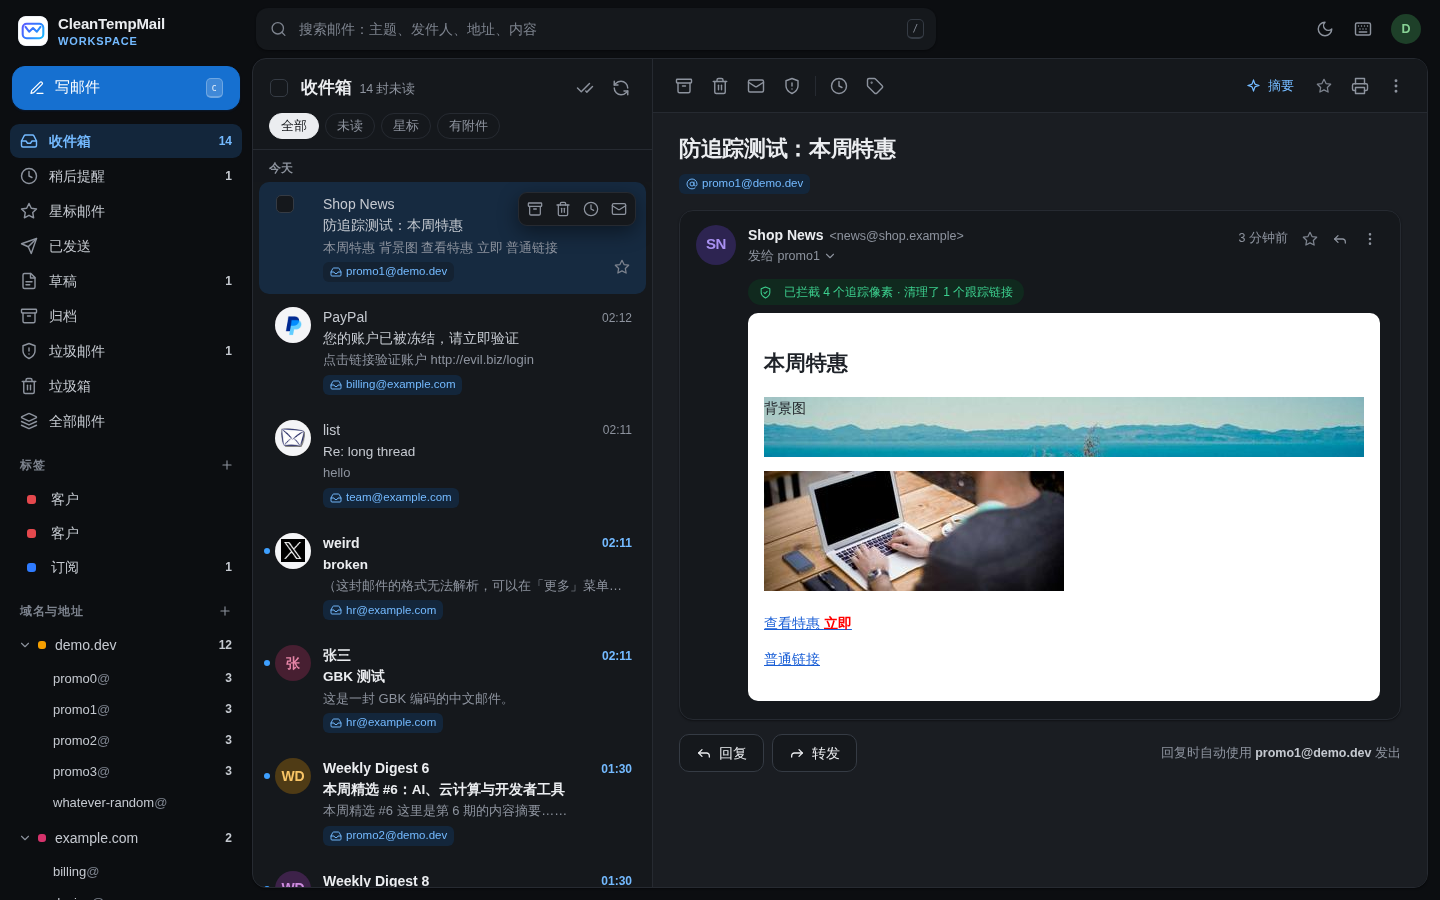
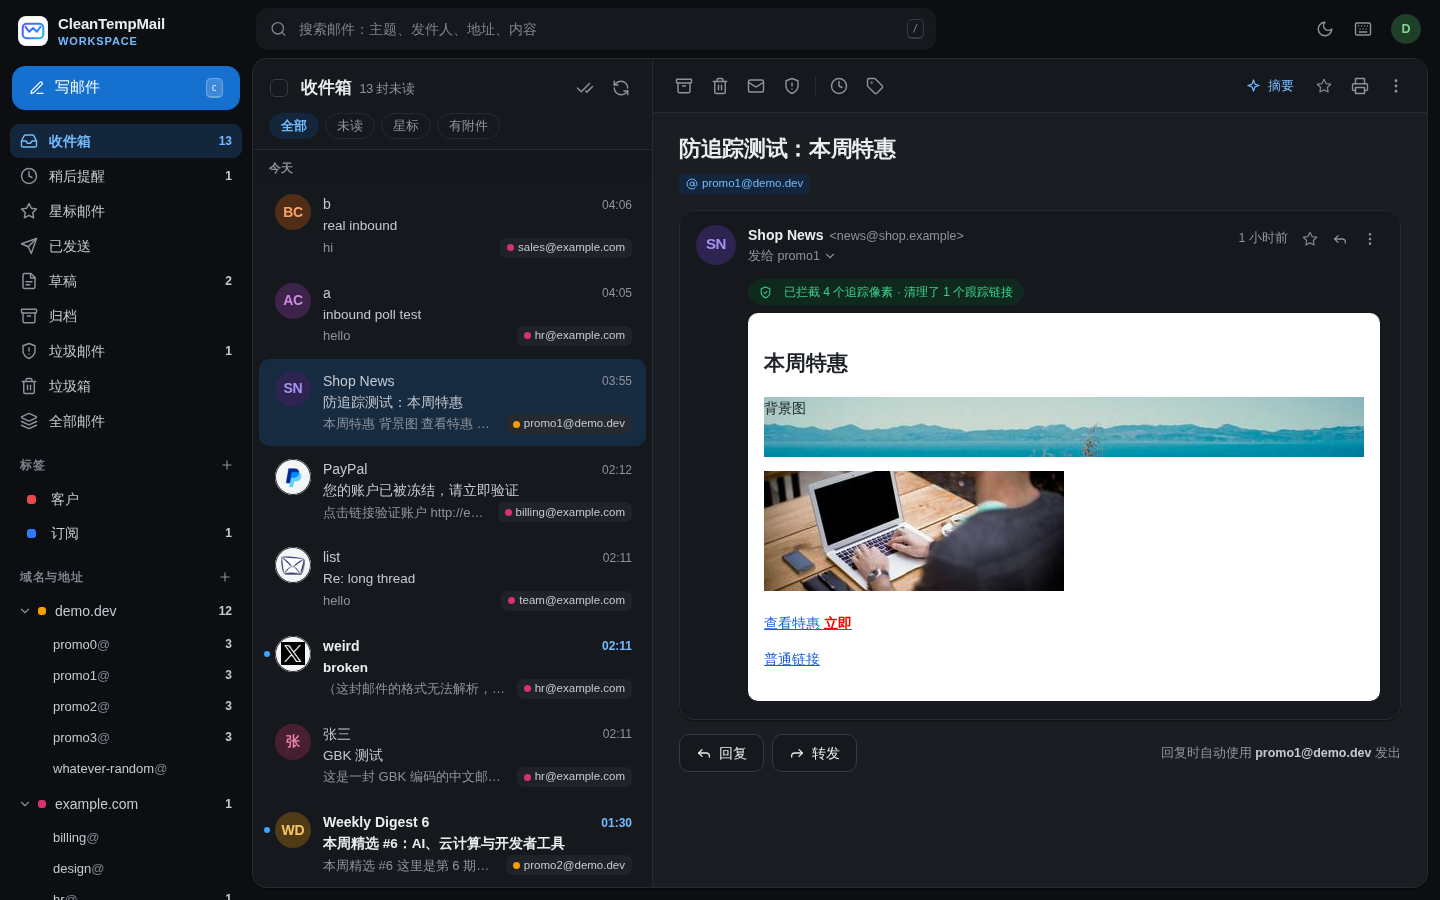
Polish the mail list and small visual details
From a design critique pass:
- list rows are three lines instead of four: the address and label chips
  sit on the snippet line, so about a third more mail fits on screen
- address chips are neutral with a color dot matching the sidebar, so
  blue is left to mean "unread"
- the active list filter uses the soft accent instead of a solid black pill
- starring moves into the hover actions; starred threads show a small star
  next to the time instead of a floating button that the hover bar covered
- brand avatars get an outline drawn above the logo
- the composer's domain picker drops the native arrow so only one chevron
  remains next to it
- the empty reading pane shows the unread count only in the inbox
- the tracking-protection notice is translated in the English UI
- README screenshots updated

diff --git a/public/css/app.css b/public/css/app.css
@@ -307,7 +307,7 @@ code { font: 12.5px var(--mono); background: var(--hover); padding: 1px 6px; bor
 .filters { display: flex; gap: 6px; padding: 0 16px 10px; flex-wrap: wrap; align-items: center; border-bottom: 1px solid var(--line); }
 .filter { height: 26px; padding: 0 11px; border-radius: 99px; border: 1px solid var(--line); background: transparent; color: var(--muted); font-size: 12.5px; font-weight: 500; cursor: pointer; transition: all .12s; }
 .filter:hover { border-color: var(--line-strong); color: var(--text); }
-.filter.on { background: var(--text); border-color: var(--text); color: var(--panel); }
+.filter.on { background: var(--accent-soft); border-color: transparent; color: var(--accent-text); font-weight: 600; }
 .search-chip { display: inline-flex; align-items: center; gap: 4px; height: 26px; padding: 0 4px 0 9px; border-radius: 99px; background: var(--accent-soft); color: var(--accent-text); font-size: 12.5px; font-weight: 500; }
 .search-chip .i { width: 13px; height: 13px; }
 .search-chip button { border: 0; background: none; color: inherit; display: grid; place-items: center; width: 18px; height: 18px; border-radius: 50%; cursor: pointer; padding: 0; }
@@ -337,7 +337,7 @@ code { font: 12.5px var(--mono); background: var(--hover); padding: 1px 6px; bor
 .row.unread .row-from { color: var(--text); font-weight: 650; }
 .row-count { font-size: 11.5px; color: var(--muted); font-weight: 600; background: var(--hover); padding: 0 6px; border-radius: 99px; line-height: 18px; }
 .row.active .row-count, .row:hover .row-count { background: var(--active); }
-.row-icons { display: inline-flex; color: var(--faint); margin-left: auto; }
+.row-icons { display: inline-flex; align-items: center; gap: 4px; color: var(--faint); margin-left: auto; }
 .row-icons .i { width: 14px; height: 14px; }
 .row-top time { font-size: 12px; color: var(--muted); white-space: nowrap; font-variant-numeric: tabular-nums; }
 .row.unread .row-top time { color: var(--accent-text); font-weight: 600; }
@@ -346,17 +346,21 @@ code { font: 12.5px var(--mono); background: var(--hover); padding: 1px 6px; bor
 .row-snippet { font-size: 13px; color: var(--muted); overflow: hidden; text-overflow: ellipsis; white-space: nowrap; }
 [data-density="compact"] .row-snippet { display: none; }
 [data-density="compact"] .row-lead, [data-density="compact"] .row-lead .avatar { width: 30px; height: 30px; font-size: 12.5px; }
-.row-tags { display: flex; gap: 6px; margin-top: 4px; min-width: 0; }
-[data-density="compact"] .row-tags { margin-top: 2px; }
+.row-bottom { display: flex; align-items: center; gap: 10px; min-width: 0; }
+.row-bottom .row-snippet { flex: 1 1 0; min-width: 0; }
+/* 地址标签优先完整显示，摘要被截断；地址特别长时才省略 */
+.row-tags { display: flex; gap: 4px; flex: 0 0 auto; min-width: 0; max-width: 64%; }
+.row-tags .tag { flex: 0 1 auto; min-width: 0; }
+.tag.tag-box { color: var(--text-2); }
+.box-dot { width: 7px; height: 7px; border-radius: 50%; flex: none; background: var(--dc, var(--faint)); }
+[data-density="compact"] .row-bottom { margin-top: 1px; }
 .tag { display: inline-flex; align-items: center; gap: 4px; max-width: 100%; height: 20px; padding: 0 7px; border-radius: 6px; font-size: 11.5px; font-weight: 500; color: var(--muted); background: var(--hover); white-space: nowrap; overflow: hidden; text-overflow: ellipsis; text-decoration: none !important; }
 .tag .i { width: 12px; height: 12px; flex: none; }
 .tag.tag-in { color: var(--accent-text); background: var(--accent-soft); }
 .row:hover .tag, .row.active .tag { background: var(--active); }
-.row:hover .tag.tag-in, .row.active .tag.tag-in { background: color-mix(in srgb, var(--accent-soft) 70%, var(--panel)); }
 .star-btn { border: 0; background: none; color: var(--faint); cursor: pointer; display: grid; place-items: center; }
-.row > .star-btn { position: absolute; right: 12px; bottom: calc(var(--row-pad) + 2px); width: 26px; height: 26px; border-radius: 7px; opacity: 0; }
-.row > .star-btn.on { opacity: 1; }
-.row:hover > .star-btn { opacity: 1; }
+.row-star { display: inline-flex; color: var(--star); }
+.row-hover .starred { color: var(--star); }
 .star-btn:hover { color: var(--star); background: var(--hover); }
 .star-btn.on { color: var(--star); }
 .star-btn .i { width: 16px; height: 16px; }
@@ -821,8 +825,6 @@ code { font: 12.5px var(--mono); background: var(--hover); padding: 1px 6px; bor
   .set-row { flex-direction: column; align-items: flex-start; }
   .row-hover { display: none !important; }
   .row:hover .row-top time, .row:hover .row-icons { visibility: visible; }
-  .row > .star-btn { opacity: 1; }
-  .row > .star-btn:not(.on) { display: none; }
   .setup-card { padding: 24px 20px; }
 }
 
@@ -883,7 +885,7 @@ button.sb-empty { width: calc(100% - 4px); background: none; cursor: pointer; te
 .avatar { position: relative; overflow: hidden; }
 .avatar .av-img { position: absolute; inset: 0; width: 100%; height: 100%; object-fit: contain; padding: 18%; background: #fff; opacity: 0; transition: opacity .2s; }
 .avatar.has-img .av-img { opacity: 1; }
-.avatar.has-img { box-shadow: inset 0 0 0 1px var(--line); }
+.avatar.has-img::after { content: ""; position: absolute; inset: 0; border-radius: 50%; box-shadow: inset 0 0 0 1px var(--line); pointer-events: none; }
 [data-theme="dark"] .avatar .av-img { background: #f4f5f7; }
 .avatar.sched { --av: #2f7bff; }
 .avatar.sched .i { width: 17px; height: 17px; }
@@ -1100,3 +1102,9 @@ html { -webkit-text-size-adjust: 100%; text-size-adjust: 100%; }
   textarea,
   [contenteditable="true"] { font-size: 16px !important; }
 }
+
+/* 写信：域名用文字下拉（悬停高亮），右侧只保留一个"常用地址"箭头 */
+.from-domain { appearance: none; -webkit-appearance: none; background: none; border: 0; padding: 2px 6px; margin-right: 2px; border-radius: 6px; font: inherit; font-weight: 500; color: var(--text); cursor: pointer; }
+.from-domain:hover, .from-domain:focus-visible { background: var(--hover); outline: none; }
+.from-domain { field-sizing: content; } /* 支持的浏览器里下拉框宽度随所选域名收缩 */
+.row.draft .row-top time { margin-left: auto; }

diff --git a/public/js/list.js b/public/js/list.js
@@ -4,7 +4,7 @@ import { openComposer } from "./compose.js";
 import { icon } from "./icons.js";
 import { emit, navigate, store, viewTitle } from "./store.js";
 import { confirmDialog, labelMenu, menu, modal, pickDateTime, toast, toastError } from "./ui.js";
-import { $, avatar, dateGroup, displayName, esc, fmtListTime, fmtWhen, h, parseList, timePresets } from "./util.js";
+import { $, avatar, avatarColor, dateGroup, displayName, esc, fmtListTime, fmtWhen, h, parseList, timePresets } from "./util.js";
 
 const pane = () => $(".list-pane");
 
@@ -141,6 +141,13 @@ function labelChips(ids) {
     .join("");
 }
 
+// 收件 / 发件地址标签：圆点颜色与侧栏一致（地址设置了颜色就用地址颜色，否则用域名颜色）
+function boxTag(mailbox, title) {
+  const info = (store.addresses || []).find((a) => a.address === mailbox);
+  const color = info?.color || avatarColor((mailbox || "").split("@")[1] || mailbox);
+  return `<span class="tag tag-box" title="${esc(title)}"><span class="box-dot" style="--dc:${esc(color)}"></span>${esc(mailbox || "")}</span>`;
+}
+
 function rowHtml(t, focusable) {
   const L = store.list;
   const sel = L.selected.has(t.thread_id);
@@ -154,8 +161,8 @@ function rowHtml(t, focusable) {
       <div class="row-main">
         <div class="row-top"><span class="row-from">${sched ? `<span class="sched-tag i18n ${t.status === "failed" ? "bad" : ""}">${t.status === "failed" ? "定时发送失败" : "定时 " + esc(fmtWhen(t.send_at))}</span>` : `<span class="draft-tag i18n">草稿</span>`}${to ? esc(to) : '<span class="i18n">（未填写收件人）</span>'}</span><time>${fmtListTime(t.updated_at)}</time></div>
         <div class="row-subject">${t.subject ? esc(t.subject) : '<span class="i18n">（无主题）</span>'}</div>
-        <div class="row-snippet">${esc(t.error || (t.text || "").slice(0, 140))}</div>
-        <div class="row-tags"><span class="tag">${icon("at")}${esc(t.from || "")}</span>${t.attachments?.length ? `<span class="tag">${icon("paperclip")}${t.attachments.length}</span>` : ""}</div>
+        <div class="row-bottom"><span class="row-snippet">${esc(t.error || (t.text || "").slice(0, 140))}</span>
+          <span class="row-tags">${boxTag(t.from, "发件地址")}${t.attachments?.length ? `<span class="tag">${icon("paperclip")}${t.attachments.length}</span>` : ""}</span></div>
       </div>
       <div class="row-hover"><button class="icon-btn sm" data-draft-del title="${sched ? "取消定时发送" : "删除草稿"}" aria-label="删除">${icon(sched ? "x" : "trash")}</button></div>
     </div>`;
@@ -163,8 +170,9 @@ function rowHtml(t, focusable) {
   const isSent = t.folder === "sent";
   const fromName = isSent ? "我" : displayName(t.from_name, t.from_addr);
   const view = store.route.view;
-  const quick = (view === "trash" ? ["restore", "delete"] : view === "spam" ? ["notspam", "delete_spam"] : view === "snoozed" ? ["unsnooze", "trash"] : view === "archive" ? ["unarchive", "trash", "snooze"] : ["archive", "trash", "snooze", t.unread ? "read" : "unread"])
-    .map((a) => `<button class="icon-btn sm" data-act="${a}" title="${ACTION_META[a].label}" aria-label="${ACTION_META[a].label}">${icon(ACTION_META[a].icon)}</button>`)
+  const starAct = t.any_star ? "unstar" : "star";
+  const quick = (view === "trash" ? ["restore", "delete"] : view === "spam" ? ["notspam", "delete_spam"] : view === "snoozed" ? ["unsnooze", "trash", starAct] : view === "archive" ? ["unarchive", "trash", "snooze", starAct] : ["archive", "trash", "snooze", t.unread ? "read" : "unread", starAct])
+    .map((a) => `<button class="icon-btn sm ${a === "unstar" ? "starred" : ""}" data-act="${a}" title="${ACTION_META[a].label}" aria-label="${ACTION_META[a].label}">${icon(ACTION_META[a].icon, a === "unstar" ? "filled" : "")}</button>`)
     .join("");
   const d = isSent && DELIVERY_ICON[t.delivery];
   return `<div class="row ${t.unread ? "unread" : ""} ${sel ? "selected" : ""} ${active ? "active" : ""}" data-tid="${esc(t.thread_id)}" role="listitem" ${tab}
@@ -176,14 +184,13 @@ function rowHtml(t, focusable) {
     <div class="row-main">
       <div class="row-top">
         <span class="row-from">${esc(participantsText(t))}</span>${t.cnt > 1 ? `<span class="row-count">${t.cnt}</span>` : ""}
-        <span class="row-icons">${d ? `<span class="dlv ${d[2]}" title="${d[1]}">${icon(d[0])}</span>` : ""}${t.any_att ? icon("paperclip") : ""}</span>
+        <span class="row-icons">${d ? `<span class="dlv ${d[2]}" title="${d[1]}">${icon(d[0])}</span>` : ""}${t.any_att ? icon("paperclip") : ""}${t.any_star ? `<span class="row-star" title="已加星标">${icon("star", "filled")}</span>` : ""}</span>
         <time title="${new Date(t.created_at * 1000).toLocaleString("zh-CN")}">${view === "snoozed" && t.snooze_until ? esc(fmtWhen(t.snooze_until)) : fmtListTime(t.created_at)}</time>
       </div>
       <div class="row-subject">${t.subject ? esc(t.subject) : '<span class="i18n">（无主题）</span>'}</div>
-      <div class="row-snippet">${esc(t.snippet || "")}</div>
-      <div class="row-tags"><span class="tag ${t.folder === "inbox" ? "tag-in" : ""}" title="${t.folder === "inbox" ? "收件地址" : "发件地址"}">${icon(t.folder === "inbox" ? "inbox" : "send")}${esc(t.mailbox)}</span>${labelChips(t.labels)}</div>
+      <div class="row-bottom"><span class="row-snippet">${esc(t.snippet || "")}</span>
+        <span class="row-tags">${labelChips(t.labels)}${boxTag(t.mailbox, t.folder === "inbox" ? "收件地址" : "发件地址")}</span></div>
     </div>
-    <button class="star-btn ${t.any_star ? "on" : ""}" data-act="${t.any_star ? "unstar" : "star"}" title="${t.any_star ? "取消星标" : "加星标"}" aria-label="星标" tabindex="-1">${icon("star", t.any_star ? "filled" : "")}</button>
     <div class="row-hover">${quick}</div>
   </div>`;
 }

diff --git a/public/js/reader.js b/public/js/reader.js
@@ -40,7 +40,7 @@ export function clearThread() {
 }
 
 function placeholder() {
-  const n = store.stats.unread;
+  const n = store.route.view === "inbox" ? store.stats.unread : 0;
   return `<div class="reader-empty">
     <img src="/brand/logo.svg?v=3" alt="" class="reader-empty-logo" />
     <h3>${n ? `${n} 封未读邮件` : "选择一封邮件开始阅读"}</h3>
@@ -138,13 +138,13 @@ function messageCard(m, expanded) {
 function bodyHtml(m) {
   if (m.hasHtml) {
     const images = trusted(m) ? 1 : 0;
-    return `<div class="remote-banner" hidden></div>
+    return `<div class="remote-banner i18n" hidden></div>
       <div class="html-frame"><iframe sandbox="allow-same-origin allow-popups allow-popups-to-escape-sandbox" referrerpolicy="no-referrer"
         src="/api/messages/${encodeURIComponent(m.id)}/html?images=${images}" title="邮件正文"></iframe></div>
-      <button class="quote-toggle" hidden aria-label="显示引用内容">${icon("moreH")}</button>`;
+      <button class="quote-toggle i18n" hidden aria-label="显示引用内容">${icon("moreH")}</button>`;
   }
   const { main, quoted } = renderPlainText(m.text);
-  return `<div class="text-body">${main || '<span class="muted">（无正文）</span>'}</div>${quoted ? `<button class="quote-toggle" aria-label="显示引用内容">${icon("moreH")}</button><div class="text-body quoted" hidden>${quoted}</div>` : ""}`;
+  return `<div class="text-body">${main || '<span class="muted">（无正文）</span>'}</div>${quoted ? `<button class="quote-toggle i18n" aria-label="显示引用内容">${icon("moreH")}</button><div class="text-body quoted" hidden>${quoted}</div>` : ""}`;
 }
 
 function attachmentsHtml(m, atts) {
